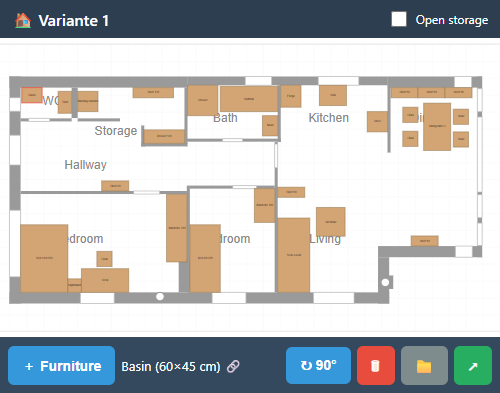
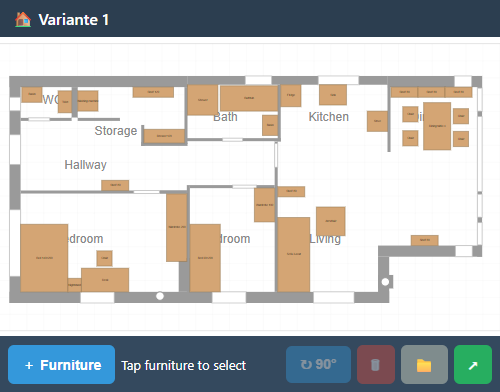
Remove storage-toggle (was specific to private demo); refresh screenshot

diff --git a/index.html b/index.html
@@ -20,11 +20,6 @@
     flex-shrink: 0;
   }
   header h1 { margin: 0; font-size: 16px; font-weight: 600; flex: 1; }
-  .toggle {
-    display: flex; align-items: center; gap: 6px;
-    font-size: 12px; cursor: pointer;
-  }
-  .toggle input { width: 16px; height: 16px; }
   #canvas-wrap {
     flex: 1; position: relative; overflow: hidden; background: #fff;
     touch-action: none;
@@ -91,10 +86,6 @@
     dominant-baseline: middle; pointer-events: none;
     font-family: sans-serif;
   }
-  .removable { opacity: 1; transition: opacity 0.2s; }
-  .removable.hidden { opacity: 0.15; }
-  .removable.hidden rect, .removable.hidden polygon { fill: #ddd; }
-
   .hint {
     position: absolute; top: 8px; left: 50%; transform: translateX(-50%);
     background: rgba(44,62,80,0.9); color: white;
@@ -108,10 +99,6 @@
 <div id="app">
   <header>
     <h1>🏠 <span id="varName">Variant</span></h1>
-    <label class="toggle">
-      <input type="checkbox" id="wallToggle">
-      <span id="toggleLabel">Open storage</span>
-    </label>
   </header>
 
   <div id="canvas-wrap">
@@ -149,12 +136,10 @@
         <rect x="1189" y="865" width="33"  height="100"/>
         <rect x="1779" y="915" width="45"  height="40"/>
 
-        <g id="removable-walls" class="removable">
-          <rect x="890" y="450" width="125" height="9"/>
-          <polygon points="1088,526 1088,533 1078,523 1082,518"/>
-          <rect x="1078" y="524" width="137" height="9"/>
-          <rect x="1078" y="471" width="9"   height="62"/>
-        </g>
+        <rect x="890" y="450" width="125" height="9"/>
+        <polygon points="1088,526 1088,533 1078,523 1082,518"/>
+        <rect x="1078" y="524" width="137" height="9"/>
+        <rect x="1078" y="471" width="9"   height="62"/>
       </g>
 
       <g id="openings" fill="#ffffff" stroke="#bdbdbd" stroke-width="1.5">
@@ -255,7 +240,6 @@
 const LANG = {
   en: {
     title: 'Quick & Dirty Floor Planner',
-    openStorage: 'Open storage',
     addFurniture: 'Furniture',
     selectHint: 'Tap furniture to select',
     addModalTitle: 'Add furniture',
@@ -288,7 +272,6 @@ const LANG = {
   },
   de: {
     title: 'Quick & Dirty Einrichtungsplaner',
-    openStorage: 'Abstellraum öffnen',
     addFurniture: 'Möbel',
     selectHint: 'Tippe ein Möbel zum Auswählen',
     addModalTitle: 'Möbel hinzufügen',
@@ -388,8 +371,6 @@ function saveStore() {
 const $ = id => document.getElementById(id);
 const svg = $('plan');
 const furnitureG = $('furniture');
-const removableG = $('removable-walls');
-const wallToggle = $('wallToggle');
 const selInfo = $('selInfo');
 const rotBtn = $('rotBtn');
 const delBtn = $('delBtn');
@@ -414,7 +395,6 @@ const shareBtn = $('shareBtn');
 function applyI18n() {
   document.title = L.title;
   document.documentElement.lang = lang;
-  $('toggleLabel').textContent = L.openStorage;
   $('lbl-add').textContent = L.addFurniture;
   $('addModalTitle').textContent = L.addModalTitle;
   $('customLabel').textContent = L.customLabel;
@@ -468,16 +448,6 @@ cAdd.onclick = () => {
   const h = parseInt($('cH').value);
   if (w > 0 && h > 0) { addFurniture(n, w, h); closeModal(); }
 };
-
-// ====== Wall toggle ======
-wallToggle.onchange = () => {
-  state.wallsRemoved = wallToggle.checked;
-  applyWallToggle();
-  saveStore();
-};
-function applyWallToggle() {
-  removableG.classList.toggle('hidden', state.wallsRemoved);
-}
 
 // ====== Add furniture ======
 function addFurniture(name, w, h) {
@@ -662,7 +632,6 @@ function getSnapEdges() {
   const verts = [];
   const horzs = [];
   document.querySelectorAll('#walls rect').forEach(r => {
-    if (r.closest('.removable.hidden')) return;
     const x = +r.getAttribute('x'), y = +r.getAttribute('y');
     const w = +r.getAttribute('width'), h = +r.getAttribute('height');
     verts.push(x, x+w);
@@ -715,8 +684,6 @@ function loadVariant(name) {
   selectedId = null;
   nextId = computeNextId();
   varName.textContent = name;
-  wallToggle.checked = !!state.wallsRemoved;
-  applyWallToggle();
   render();
   updateSel();
   saveStore();

diff --git a/README.md b/README.md
@@ -44,6 +44,7 @@ roadmap (the algorithm already works in Python, just needs porting to JS).
 
 - [ ] Floor plan import: upload a photo/PDF of an existing plan, auto-trace walls
 - [ ] Wall editing: draw and move walls directly in the app
+- [ ] Mark walls as "removable" for before/after preview (renovation planning)
 - [ ] Export as bitmap / PDF for printing
 - [ ] Furniture rotation in arbitrary angles (currently 90° only)
 - [ ] Undo / redo
